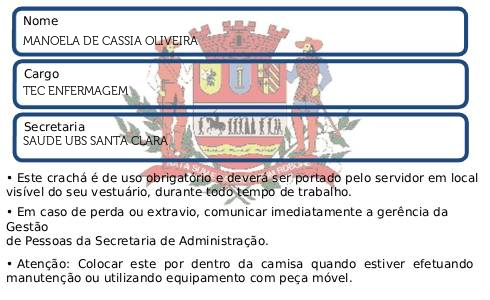
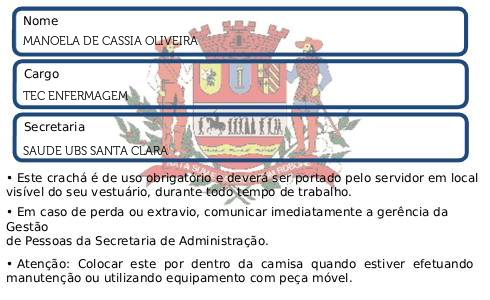
Alteracao das disposicoes dos textos na frente do cracha

Changed region(s): [[0.0306, 0.45, 0.3367, 0.54], [0.0306, 0.27, 0.2755, 0.36]]

diff --git a/src/main/java/br/com/cifmm/service/GerarCrachas.java b/src/main/java/br/com/cifmm/service/GerarCrachas.java
@@ -223,9 +223,9 @@ public class GerarCrachas {
         // Adiciona textos
         int linha = POSICAO_DADOS_VERSO.y;
         g.drawString(nome, POSICAO_DADOS_VERSO.x, linha);
-        linha += 50;
+        linha += 55;
         g.drawString(cargo, POSICAO_DADOS_VERSO.x, linha);
-        linha += 50;
+        linha += 55;
         g.drawString(secretaria, POSICAO_DADOS_VERSO.x, linha);
 
         g.dispose();
@@ -243,24 +243,25 @@ public class GerarCrachas {
         System.out.println("Desenhando nome: " + nome + ", matricula: " + matricula + ", apelido: " + apelido);
 
         String primeiroNome = getPrimeiroNome(nome);
-        String nomeExibir;
+        
+        // Configuração da fonte principal para o nome
+        g.setFont(new Font(FONTE_PRINCIPAL, Font.BOLD, 24));
+        
+        // 1. Desenha o primeiro nome
+        System.out.println("Desenhando primeiro nome: " + primeiroNome + ", posição: (" + POSICAO_NOME.x + ", " + POSICAO_NOME.y + ")");
+        drawStringFit(g, primeiroNome, POSICAO_NOME.x, POSICAO_NOME.y, 220);
 
-        // Se o apelido existir, formata como "PrimeiroNome (Apelido)"
+        // 2. Desenha o apelido (se existir) - uma linha abaixo do nome
         if (apelido != null && !apelido.trim().isEmpty()) {
-            nomeExibir = primeiroNome + " (" + apelido.trim() + ")";
-            System.out.println("Usando nome com apelido: " + nomeExibir);
-        } else {
-            nomeExibir = primeiroNome;
-            System.out.println("Usando apenas primeiro nome: " + nomeExibir);
+            // Calcula a posição Y para o apelido (uma linha abaixo do nome)
+            int posicaoApelidoY = POSICAO_NOME.y + 30; // Ajuste a distância conforme necessário
+            String apelidoFormatado = "\"" + apelido.trim() + "\"";
+            
+            System.out.println("Desenhando apelido: " + apelidoFormatado + ", posição: (" + POSICAO_NOME.x + ", " + posicaoApelidoY + ")");
+            drawStringFit(g, apelidoFormatado, POSICAO_NOME.x, posicaoApelidoY, 220);
         }
 
-        // Nome (com ou sem apelido)
-        g.setFont(new Font(FONTE_PRINCIPAL, Font.BOLD, 24));
-        System.out.println("Nome/Apelido a ser exibido: " + nomeExibir + ", posição: (" + POSICAO_NOME.x + ", " + POSICAO_NOME.y + ")");
-        // O método drawStringFit já ajusta o tamanho da fonte se o texto for muito longo
-        drawStringFit(g, nomeExibir, POSICAO_NOME.x, POSICAO_NOME.y, 220); 
-
-        // Matrícula (código existente)
+        // 3. Matrícula/RE - configuração da fonte customizada
         try {
             Font fonteCustom = Font.createFont(Font.TRUETYPE_FONT, new File(FONTE_CUSTOM_1)).deriveFont(18f);
             g.setFont(fonteCustom);
@@ -268,8 +269,11 @@ public class GerarCrachas {
             System.err.println("Fonte customizada não encontrada, usando Arial padrão: " + e.getMessage());
             g.setFont(new Font("Arial", Font.PLAIN, 18));
         }
-        System.out.println("Desenhando RE: " + matricula + ", posição: (" + POSICAO_MATRICULA.x + ", " + POSICAO_MATRICULA.y + ")");
-        g.drawString("RE: " + matricula, POSICAO_MATRICULA.x, POSICAO_MATRICULA.y);
+        
+        // Formato atualizado para "Matricula/RE"
+        String matriculaFormatada = matricula;
+        System.out.println("Desenhando matrícula: " + matriculaFormatada + ", posição: (" + POSICAO_MATRICULA.x + ", " + POSICAO_MATRICULA.y + ")");
+        g.drawString(matriculaFormatada, POSICAO_MATRICULA.x, POSICAO_MATRICULA.y + 30);
     }
     
     /**
